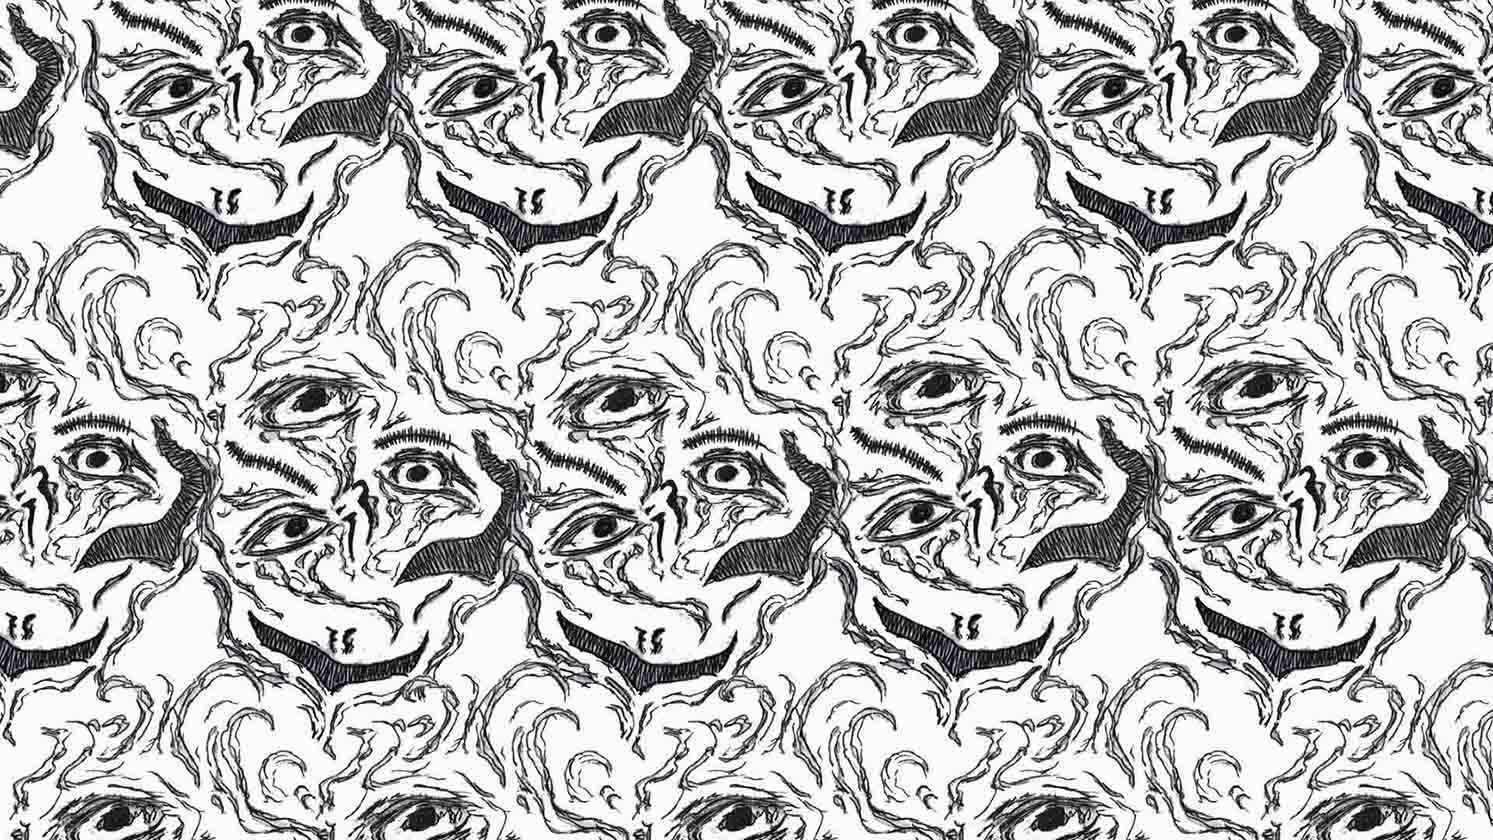
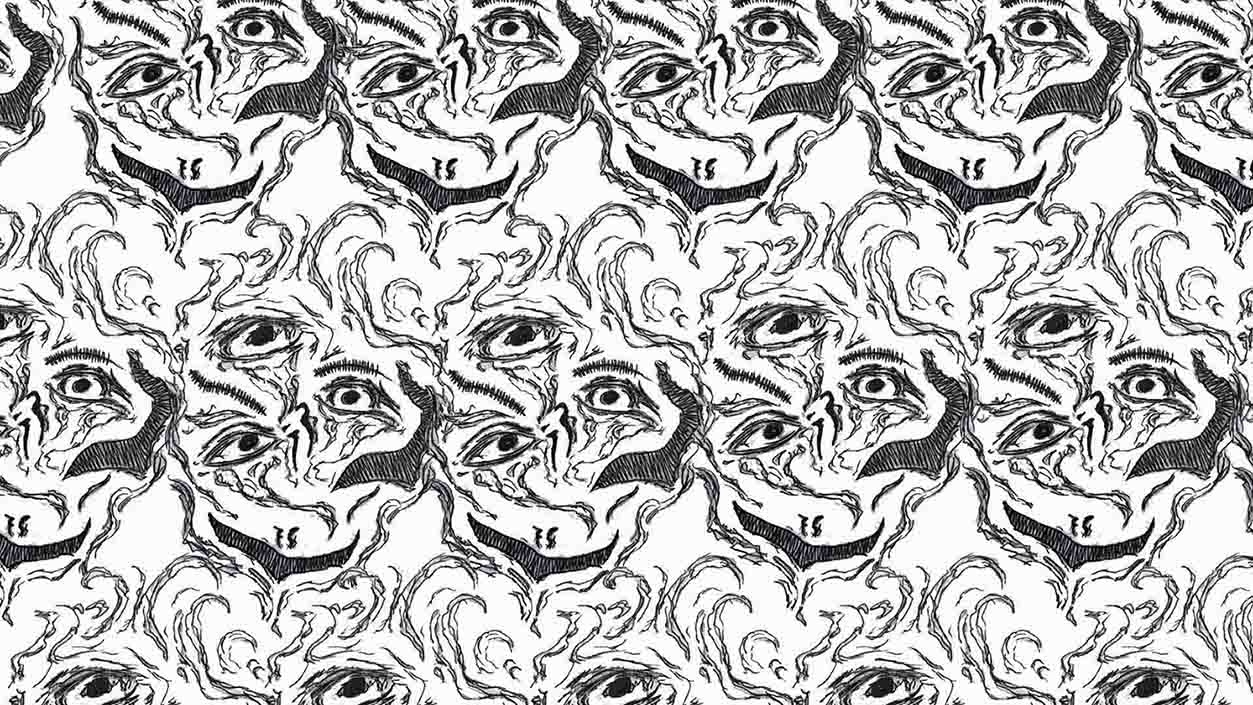
smaller image file sizes for mobile

diff --git a/src/App.css b/src/App.css
@@ -362,3 +362,13 @@ footer .fa-angle-up {
   border-top: 5px solid #fafafa;
   background: #232323;
 }
+
+/* smaller image size on smaller screens for performance */
+@media (max-width: 500px) {
+  .appBackground {
+    background-image:url(assets/dreamShareBackgroundMobile.jpg);
+  }
+  .darkMode .appBackground {
+    background-image:url(assets/dreamShareBackgroundDarkMobile.jpg);
+  }
+}
